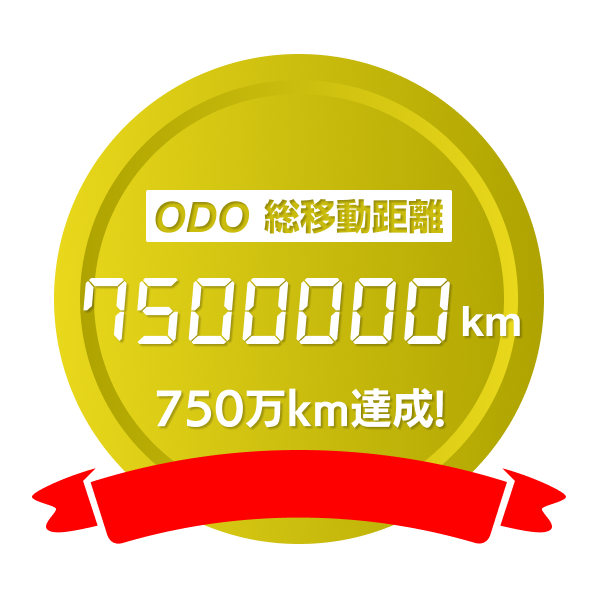
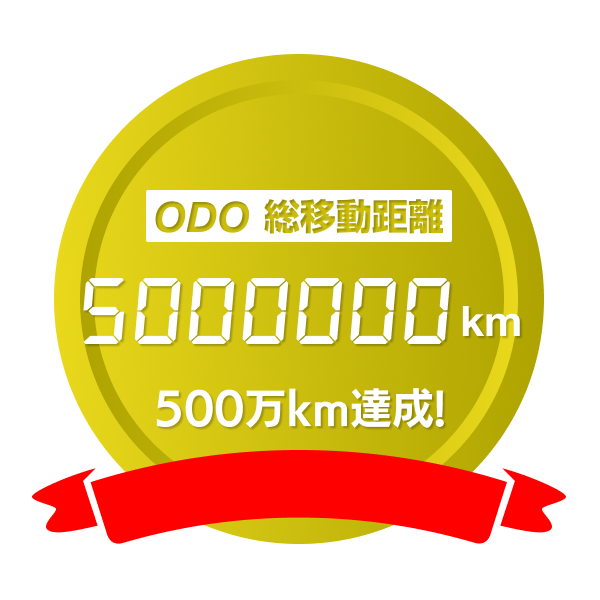
fix(achievements): 500万km実績の画像名を修正

Changed region(s): [[0.15, 0.45, 0.3, 0.6], [0.24, 0.63, 0.36, 0.72]]

diff --git a/src/features/achievements/__tests__/achievementDefinitions.test.ts b/src/features/achievements/__tests__/achievementDefinitions.test.ts
@@ -38,10 +38,16 @@ describe('実績定義 achievementDefinitions', () => {
     expect(ACHIEVEMENT_DEFINITIONS).toEqual(
       expect.arrayContaining([
         expect.objectContaining({ id: 'distance-100', category: 'distance', title: '100km移動した' }),
+        expect.objectContaining({ id: 'distance-5000000', category: 'distance', title: '5000000km移動した' }),
+        expect.objectContaining({ id: 'distance-7500000', category: 'distance', title: '7500000km移動した' }),
         expect.objectContaining({ id: 'distance-earth-40000', category: 'distance', title: '地球1周した' }),
         expect.objectContaining({ id: 'prefectures-47', category: 'prefecture' }),
         expect.objectContaining({ id: 'cities-1000', category: 'municipality' }),
       ]),
     );
+  });
+
+  it('存在しない400万km実績を含まない', () => {
+    expect(ACHIEVEMENT_DEFINITIONS.some((definition) => definition.id === 'distance-4000000')).toBe(false);
   });
 });

diff --git a/src/features/achievements/achievementDefinitions.ts b/src/features/achievements/achievementDefinitions.ts
@@ -76,8 +76,8 @@ const distanceSteps = [
   1_000_000,
   2_000_000,
   3_000_000,
-  4_000_000,
   5_000_000,
+  7_500_000,
   9_999_999,
 ] as const;
 
@@ -118,8 +118,8 @@ const distanceTrophyImages: Record<number, ImageSourcePropType> = {
   1000000: require('../../../assets/achievements/odo/odo-1000000.png'),
   2000000: require('../../../assets/achievements/odo/odo-2000000.png'),
   3000000: require('../../../assets/achievements/odo/odo-3000000.png'),
-  4000000: require('../../../assets/achievements/odo/odo-4000000.png'),
   5000000: require('../../../assets/achievements/odo/odo-5000000.png'),
+  7500000: require('../../../assets/achievements/odo/odo-7500000.png'),
   9999999: require('../../../assets/achievements/odo/odo-9999999.png'),
 };
 

diff --git a/docs/achievements.md b/docs/achievements.md
@@ -191,8 +191,8 @@ odo-750000
 odo-1000000
 odo-2000000
 odo-3000000
-odo-4000000
 odo-5000000
+odo-7500000
 odo-9999999
 odo-earth-40000
 odo-earth-80000
